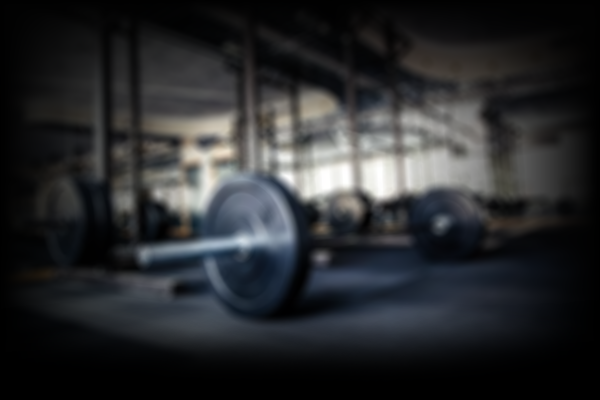
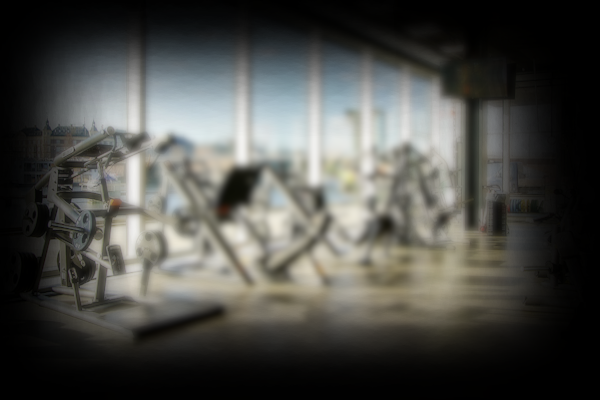
logon prompt

diff --git a/app/components/loginform.jsx b/app/components/loginform.jsx
@@ -1,0 +1,99 @@
+'use client';
+import { useState } from 'react';
+import { useRouter } from 'next/navigation';
+const LOGIN_URL = 'https://assignment2.swafe.dk/api/Users/login';
+
+export function LoginForm({ onSuccess }) {
+  const router = useRouter();
+  const [email, setEmail] = useState('user@example.com');
+  const [password, setPassword] = useState('');
+  const [error, setError] = useState('');
+  const [loading, setLoading] = useState(false);
+
+  async function handleSubmit(e) {
+    e.preventDefault();
+    setError('');
+    setLoading(true);
+
+    try {
+      const res = await fetch(LOGIN_URL, {
+        method: 'POST',
+        headers: { 'Content-Type': 'application/json' },
+        body: JSON.stringify({ email, password }),
+      });
+
+      if (!res.ok) {
+        const errData = await res.json().catch(() => null);
+        throw new Error(errData?.message || `Login failed (${res.status})`);
+      }
+
+      const data = await res.json();
+      const jwt = data?.jwt ?? null;
+
+      if (!jwt) {
+        throw new Error('Response did not include a jwt.');
+      }
+
+      // Cache JWT in HttpOnly cookie so app/page.jsx can read it on the server
+      const cacheRes = await fetch('/api/auth/session', {
+        method: 'POST',
+        headers: { 'Content-Type': 'application/json' },
+        body: JSON.stringify({ jwt }),
+      });
+
+      if (!cacheRes.ok) {
+        throw new Error('Failed to cache session token.');
+      }
+
+      setPassword('');
+      if (typeof onSuccess === 'function') {
+        onSuccess(jwt);
+      }
+
+      // Re-run Server Component check in page.jsx
+      router.refresh();
+    } catch (err) {
+      setError(err instanceof Error ? err.message : 'Unexpected login error');
+    } finally {
+      setLoading(false);
+    }
+  }
+
+  return (
+    <form onSubmit={handleSubmit} className="flex max-w-sm flex-col gap-3 rounded border p-6">
+      <h2 className="text-lg font-semibold">Login</h2>
+
+      <label className="flex flex-col gap-1 text-sm">
+        <span>Email</span>
+        <input
+          type="email"
+          required
+          value={email}
+          onChange={(e) => setEmail(e.target.value)}
+          className="rounded border px-3 py-2"
+        />
+      </label>
+
+      <label className="flex flex-col gap-1 text-sm">
+        <span>Password</span>
+        <input
+          type="password"
+          required
+          value={password}
+          onChange={(e) => setPassword(e.target.value)}
+          className="rounded border px-3 py-2"
+        />
+      </label>
+
+      {error && <p className="text-sm text-red-600">{error}</p>}
+
+      <button
+        type="submit"
+        disabled={loading}
+        className="mt-2 rounded bg-black px-4 py-2 text-white disabled:opacity-50"
+      >
+        {loading ? 'Signing in...' : 'Log in'}
+      </button>
+    </form>
+  );
+}

diff --git a/app/globals.css b/app/globals.css
@@ -1,22 +1,15 @@
-
 :root {
   --background: #ffffff;
-  --foreground: #aaaaaa;
+  --foreground: rgba(255, 255, 255, 0.708);
+  --fontclr: black;
+  --accent: #105e2f;
 }
 
-@media (prefers-color-scheme: dark) {
-  :root {
-    --background: #0a0a0a;
-    --foreground: #5d5a5a;
-    --fontclr:white;
-  }
-}
-
-body,html{
-  margin:0;
+body,
+html {
+  margin: 0;
   background: url('gfx/bkgrnd.png');
   background-size: cover;
-
   background-repeat: no-repeat;
   background-color: black;
   color: var(--fontclr);
@@ -26,30 +19,41 @@ body,html{
 .wrapper {
   margin: 0 auto;
   max-width: 100%;
-  min-height: 90vh;
-  min-width: 600px;
-  border-right: 1px whitesmoke ridge;
-  border-left: 1px whitesmoke ridge;
+  min-height: 60vh;
 }
-.inner-wrapper{
-  width: 65%;
-  min-width: 600px;
+
+.inner-wrapper {
+  width: 80%;
   margin: 0 auto;
-  background: blue;
+  min-height: 60vh;
+  display: grid;
+  grid-template-columns: 23% 76%;
+  gap: 1%;
+}
+
+.content-sidenav {
+  background: var(--foreground);
+}
+
+.content-master {
+  background: var(--foreground);
+}
+
+.header-strip {
+  width: 100%;
   height: 100px;
+  text-align: left;
+  background: url('gfx/topstrip.png');
 }
 
-
-.header-topgraphic{
-  width: 100%;
-  min-height: 30px;
-  text-align: center;
-  border-bottom: 5px whitesmoke outset;
-  border-bottom-left-radius: 10px;
-  border-bottom-right-radius: 10px;
+.header-strip h1 {
+  margin: 0 10%;
+  color: white;
+  user-select: none;
 }
 
-.header{
-  width: 100%;
-  min-height: 50px;
+.header-strip h3 {
+  margin: 0 10%;
+  color: white;
+  user-select: none;
 }

diff --git a/app/layout.jsx b/app/layout.jsx
@@ -5,6 +5,10 @@ export default function RootLayout({ children }) {
       lang="en"
     >
       <body className="min-h-full flex flex-col">
+        <div className="header-strip">
+          <h1>GRP 36 AFE OPGAVE 2</h1>
+          <h3>Fitness App</h3>
+        </div>
         <div className="wrapper">
           {children}
         </div>

diff --git a/app/page.jsx b/app/page.jsx
@@ -1,9 +1,10 @@
-import Header from "./templates/header";
+import Content from "./templates/content";
+
 export default function Home() {
   return (
     <>
       <div className="inner-wrapper">
-
+        <Content/>
       </div>
 
     </>

diff --git a/app/templates/content.jsx b/app/templates/content.jsx
@@ -1,7 +1,10 @@
 function Content({ name, role }) {
     return (
         <>
-        
+            <div className="content-sidenav">
+            </div>
+            <div className="content-master">
+            </div>
         </>
     );
 
